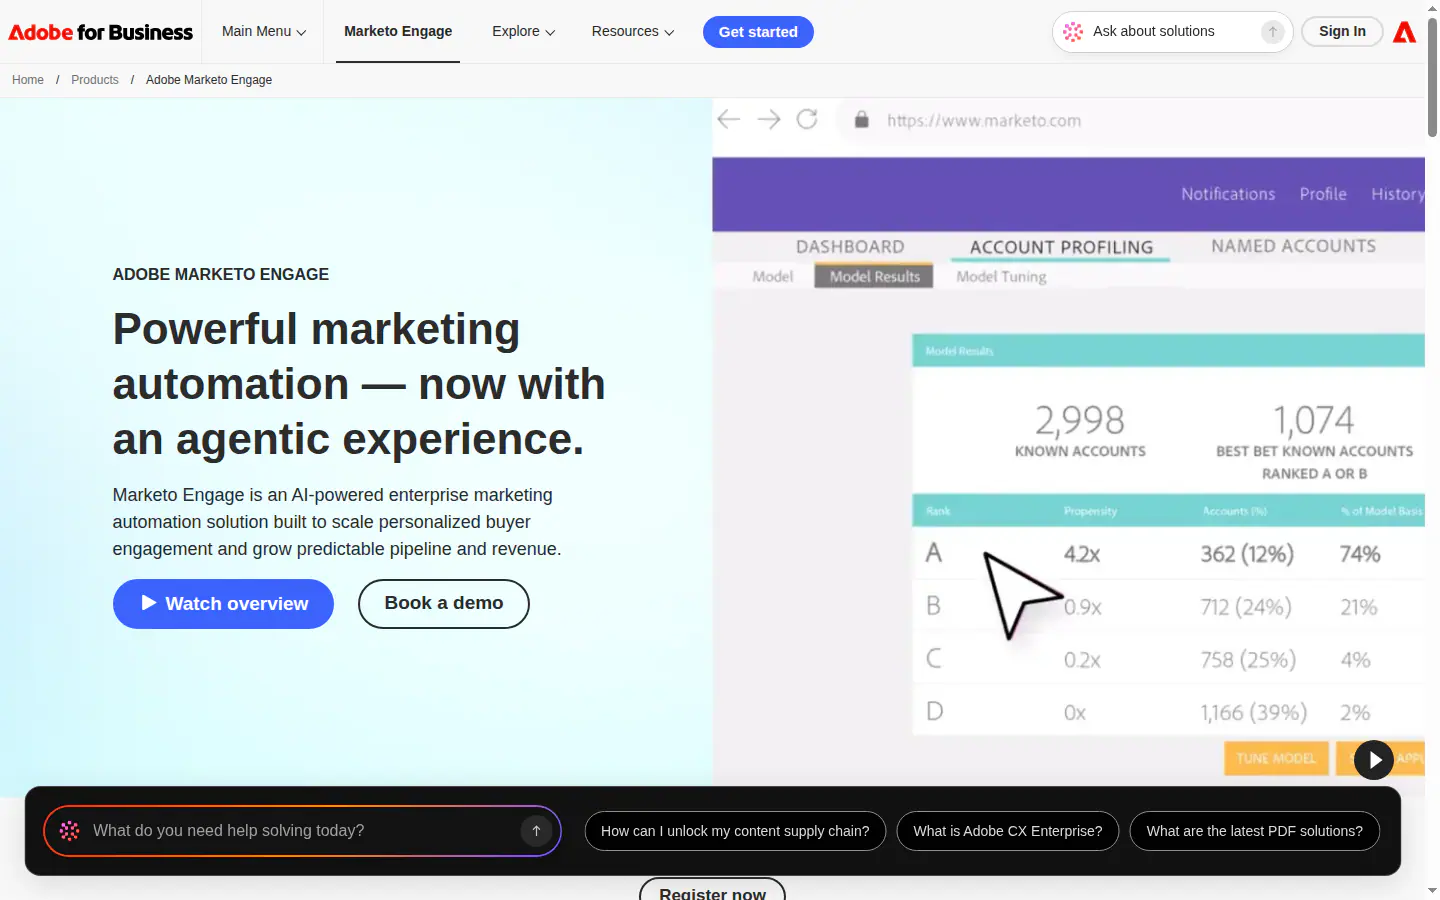
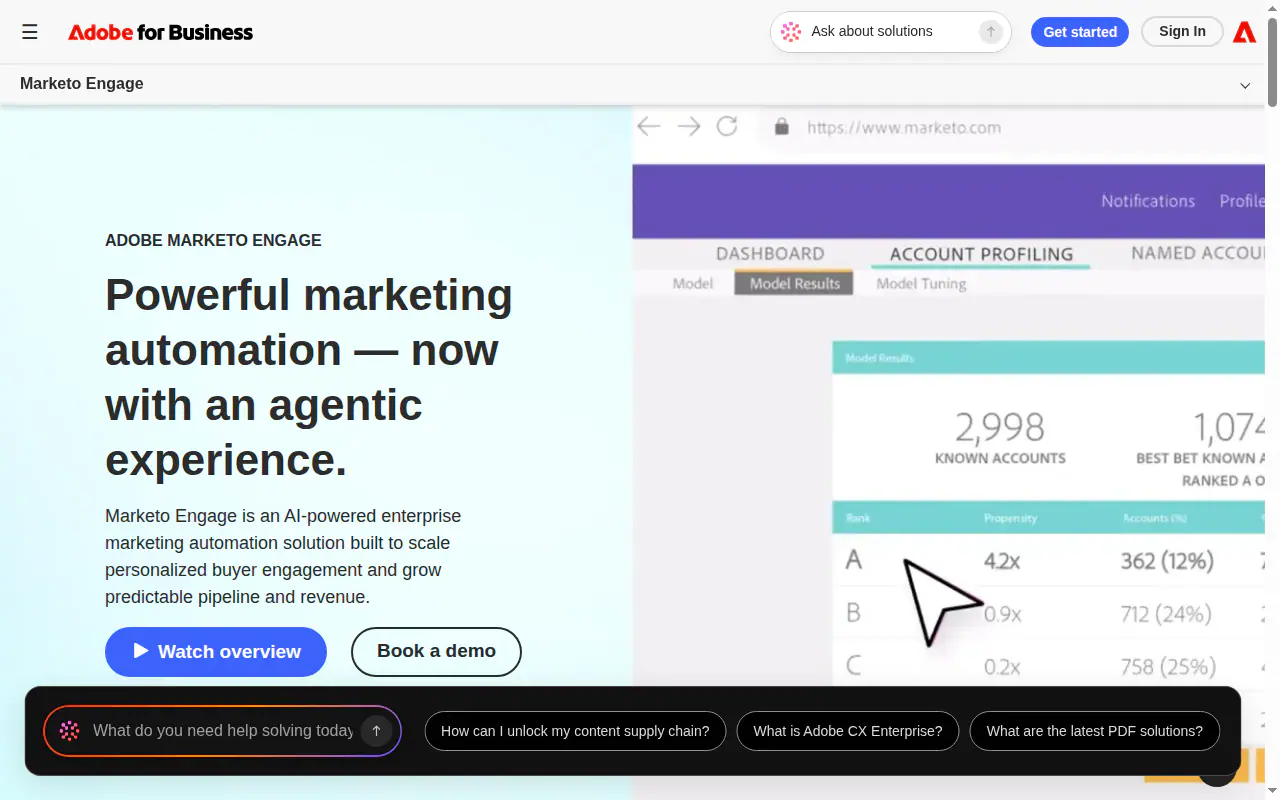
Refresh DeepSeek, Semrush, and Marketo screenshots.
Keep the Marketo visit URL on the page a browser actually reaches, and note that curl cannot finish the Adobe host.

diff --git a/scripts/screenshots/REPORT.md b/scripts/screenshots/REPORT.md
@@ -40,19 +40,19 @@ Ratées par type : captcha 5.
 
 | id | note |
 | --- | --- |
-| adobe-marketo-engage | Capture de https://business.adobe.com/products/marketo.html. |
+| adobe-marketo-engage | Capture de https://business.adobe.com/products/marketo.html, URL finale du navigateur. |
 | autoregex | Page produit visible. Un iframe captcha est dans le DOM mais ne couvre pas la page. |
 | character-ai | Capture de character.ai. |
-| chatcode | Interface réelle, page sombre peu dense. |
+| chatcode | Rendu attendu (fond #343541, titre, champ Ask Code). La page ne contient rien d'autre. |
 | claude-3 | Capture de claude.com, le site marketing officiel. claude.ai répond 403. |
 | clipdroprelight | Image officielle og:image de clipdrop.co/relight. La page elle-même est un interstitiel. |
 | codepal | Image officielle og:image de codepal.ai. La page elle-même est un captcha. |
-| deepseek | Capture de la page marketing avant le plantage JavaScript (client-side exception). |
+| deepseek | Capture de la homepage après chargement des visuels, avant le plantage JavaScript. |
 | gamma | Capture de help.gamma.app. gamma.app, /pricing et /templates restent derrière un captcha. |
 | ideogram | Image officielle about.ideogram.ai, pas une capture du navigateur. ideogram.ai reste derrière un captcha. |
 | neurallove | Capture de https://neural.love/video. |
 | pictory | Image officielle og:image de pictory.ai. La page elle-même est un captcha. |
-| semrushwritingassistant | Capture de https://www.semrush.com/swa/demo. |
+| semrushwritingassistant | Capture de https://www.semrush.com/swa/. |
 | wellsaid | Capture de wellsaid.io/ai-voice-pricing. La homepage est un captcha. |
 | zonos | Capture du HTML de zonosai.com sans JavaScript. Avec JavaScript la page est un captcha. |
 
